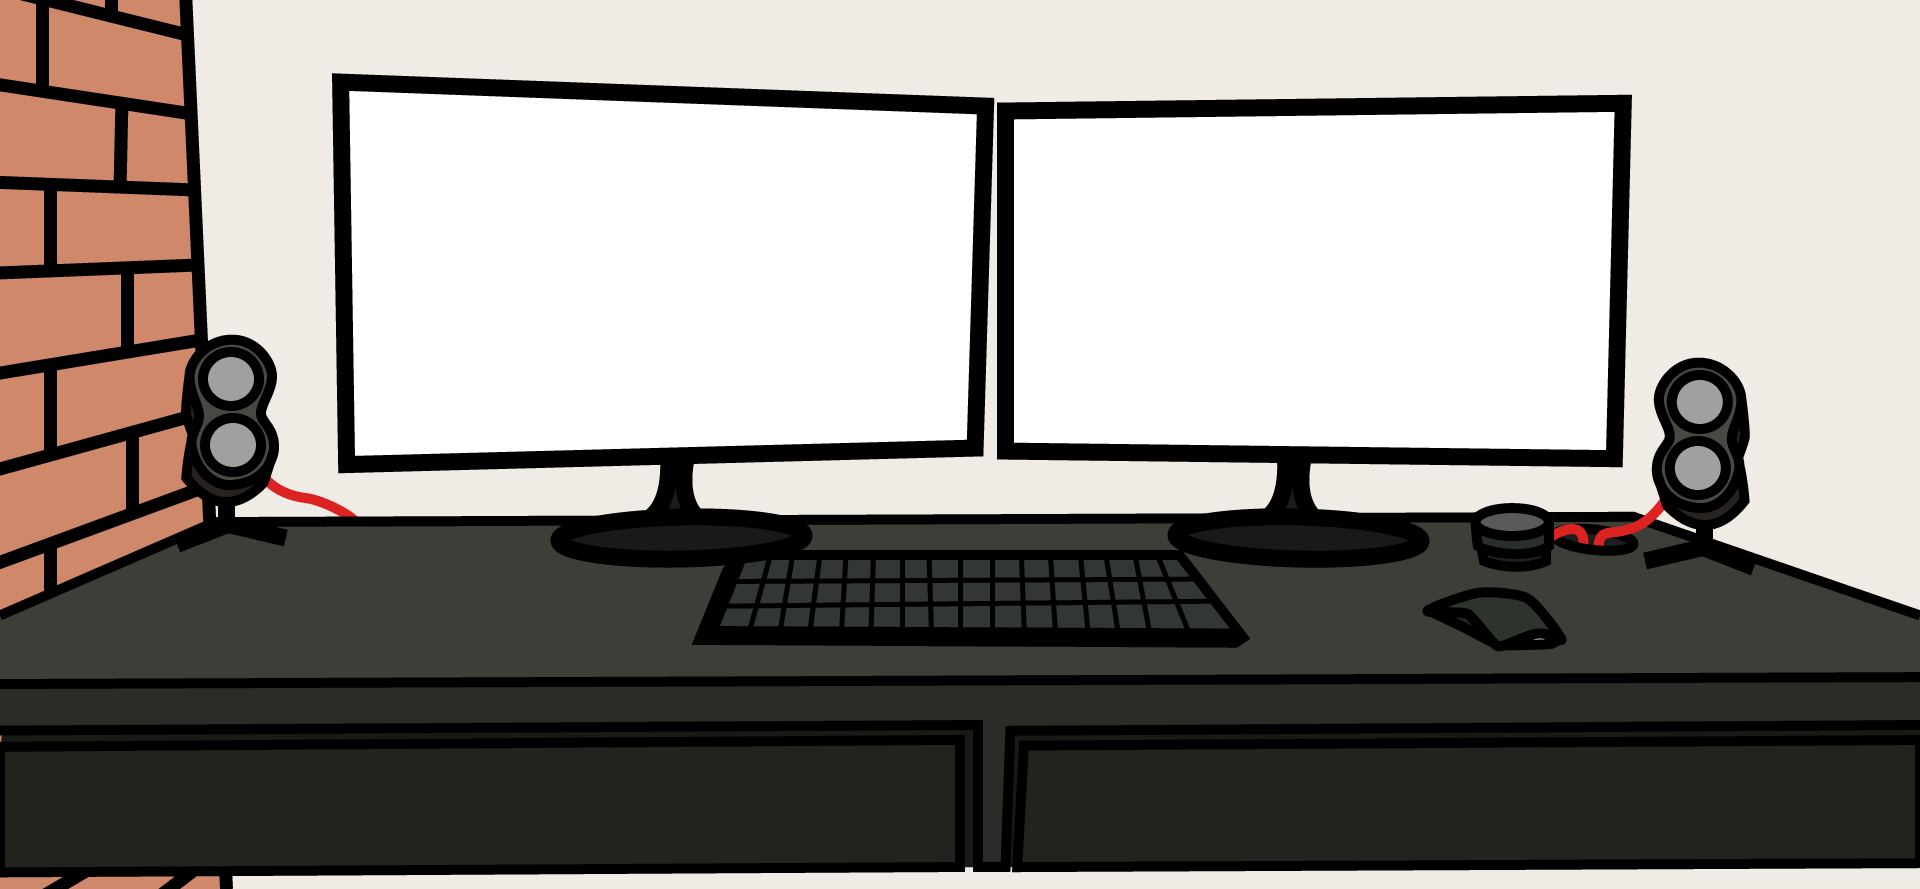
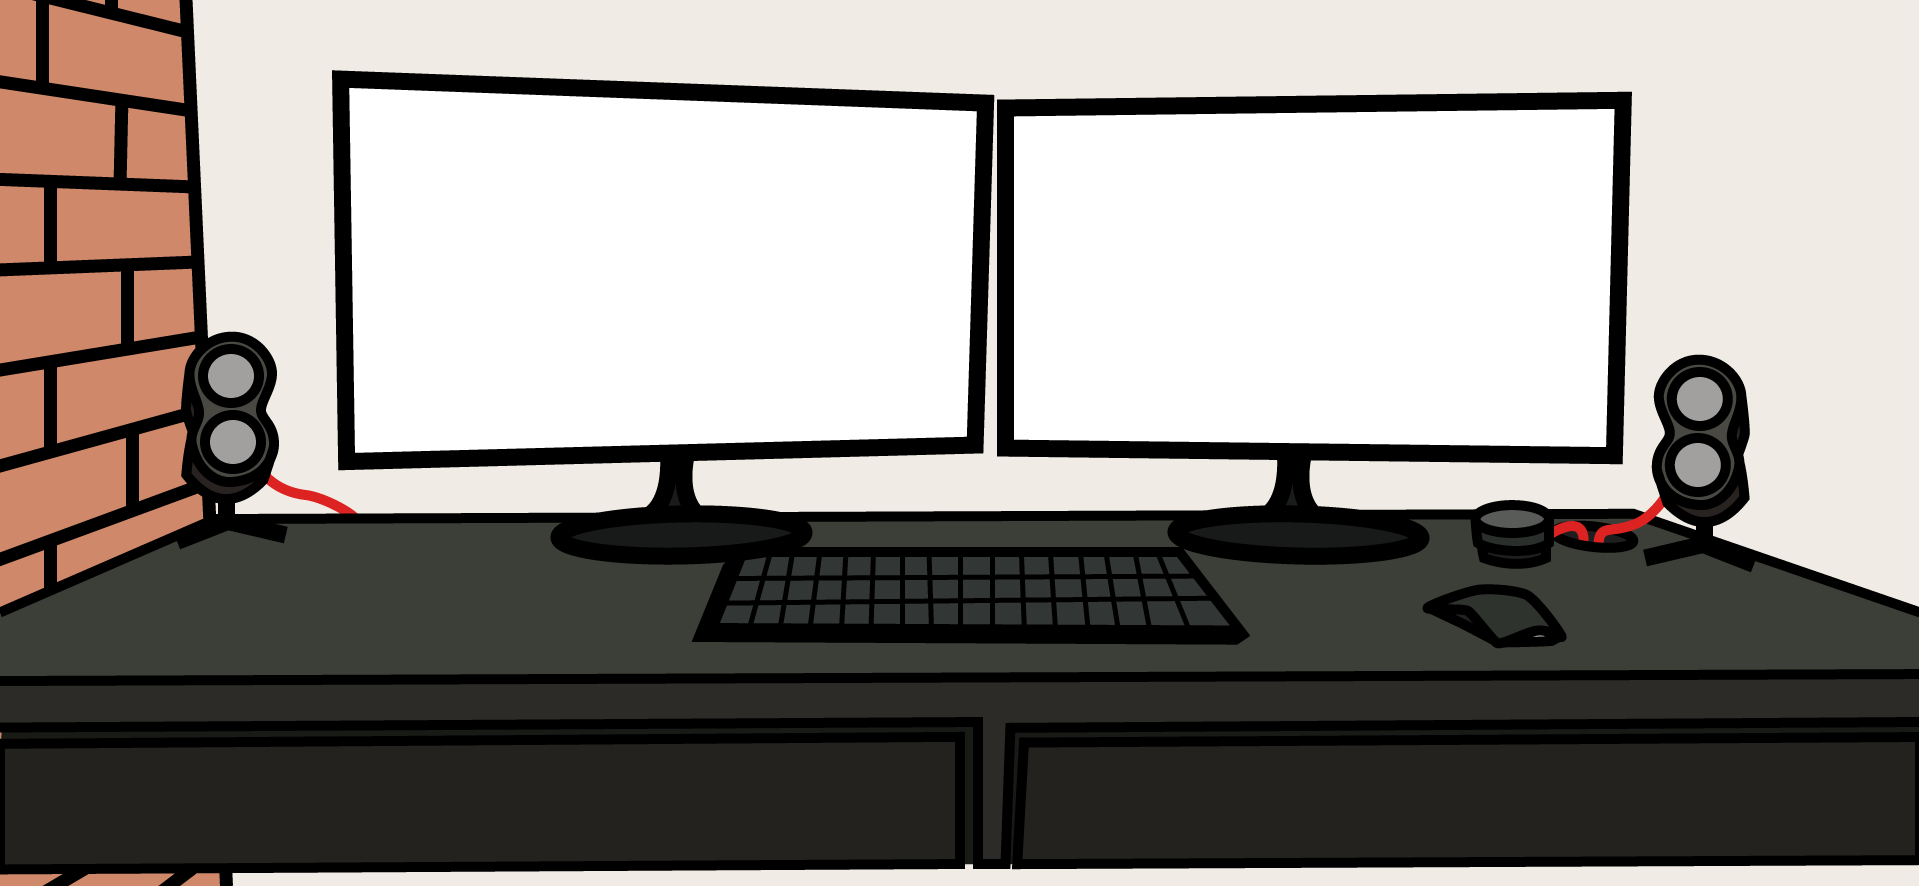
Resized image so they match. Added cool onClick image change

diff --git a/Nyakeh/skeleton.html b/Nyakeh/skeleton.html
@@ -47,7 +47,7 @@
 		</div>
 	</div>
 	<div class="row desk">
-		<img class="u-max-full-width" src="/img/desk.png">
+		<img id="deskImage" class="u-max-full-width" src="/img/desk.png">
 	</div>
 
 	<div class="container">
@@ -117,6 +117,9 @@
 			</li>
 		</ul>
 	</div>
+	
+	<script src="https://ajax.googleapis.com/ajax/libs/jquery/2.1.3/jquery.min.js"></script>
+	<script src="/js/script.js"></script>
 </body>
 
 </html>

diff --git a/Nyakeh/js/script.js b/Nyakeh/js/script.js
@@ -1,0 +1,8 @@
+$("#deskImage").click(function(){
+    imagePath = $("#deskImage").attr("src");
+    if(imagePath == "/img/desk.png"){
+        $("#deskImage").attr("src", "/img/deskAlt.png");
+    }else{
+        $("#deskImage").attr("src", "/img/desk.png");        
+    }
+});
